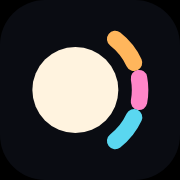
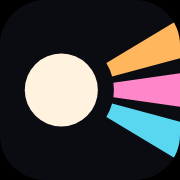
feat(site): ✨ the lens is a band of the cards' own glass; a mark of three cones
Fourth round of the study, after review: the band bent around the self says
the most, but it has to be drawn like the rest of the scene.

- The lens is a band of dark glass around the lower half of the self, with
  the hairline and the eased corners of the cards. Its hollow side is lit by
  the self; white light crosses to it, and each colour is born on the rounded
  side, from a short lit stretch of the edge, as it lands on its card.
- The mark is a white disc and three cones of colour of the same width, cut
  by the edge of the picture. Favicon, Apple icon and the share picture follow.

Changed region(s): [[0.2778, 0.1111, 1.0, 0.8889], [0.1389, 0.3056, 0.2778, 0.6944]]

diff --git a/scripts/og/og.html b/scripts/og/og.html
@@ -108,24 +108,27 @@
   <body>
     <div class="brand">
       <svg viewBox="0 0 32 32" fill="none">
-        <circle cx="12.4" cy="16" r="9.1" fill="#fff3df" />
+        <circle cx="9.4" cy="16" r="7.9" fill="#fff3df" />
         <path
-          d="M20.83 5.2a13.7 13.7 0 0 1 3.99 5.01"
+          d="M19.17 10.13a11.4 11.4 0 0 1 1.24 2.92L33 9.68V1.82Z"
+          fill="#ffb65c"
           stroke="#ffb65c"
-          stroke-width="3.3"
-          stroke-linecap="round"
+          stroke-width="1.1"
+          stroke-linejoin="round"
         />
         <path
-          d="M25.87 13.5a13.7 13.7 0 0 1 0 5"
+          d="M20.69 14.41a11.4 11.4 0 0 1 0 3.18L33 19.32v-6.64Z"
+          fill="#ff86c8"
           stroke="#ff86c8"
-          stroke-width="3.3"
-          stroke-linecap="round"
+          stroke-width="1.1"
+          stroke-linejoin="round"
         />
         <path
-          d="M24.82 21.79a13.7 13.7 0 0 1-3.99 5.01"
+          d="M20.41 18.95a11.4 11.4 0 0 1-1.24 2.92L33 30.18v-7.86Z"
+          fill="#5ad7f0"
           stroke="#5ad7f0"
-          stroke-width="3.3"
-          stroke-linecap="round"
+          stroke-width="1.1"
+          stroke-linejoin="round"
         />
       </svg>
       <span>brig<span class="dot"></span>id</span>
